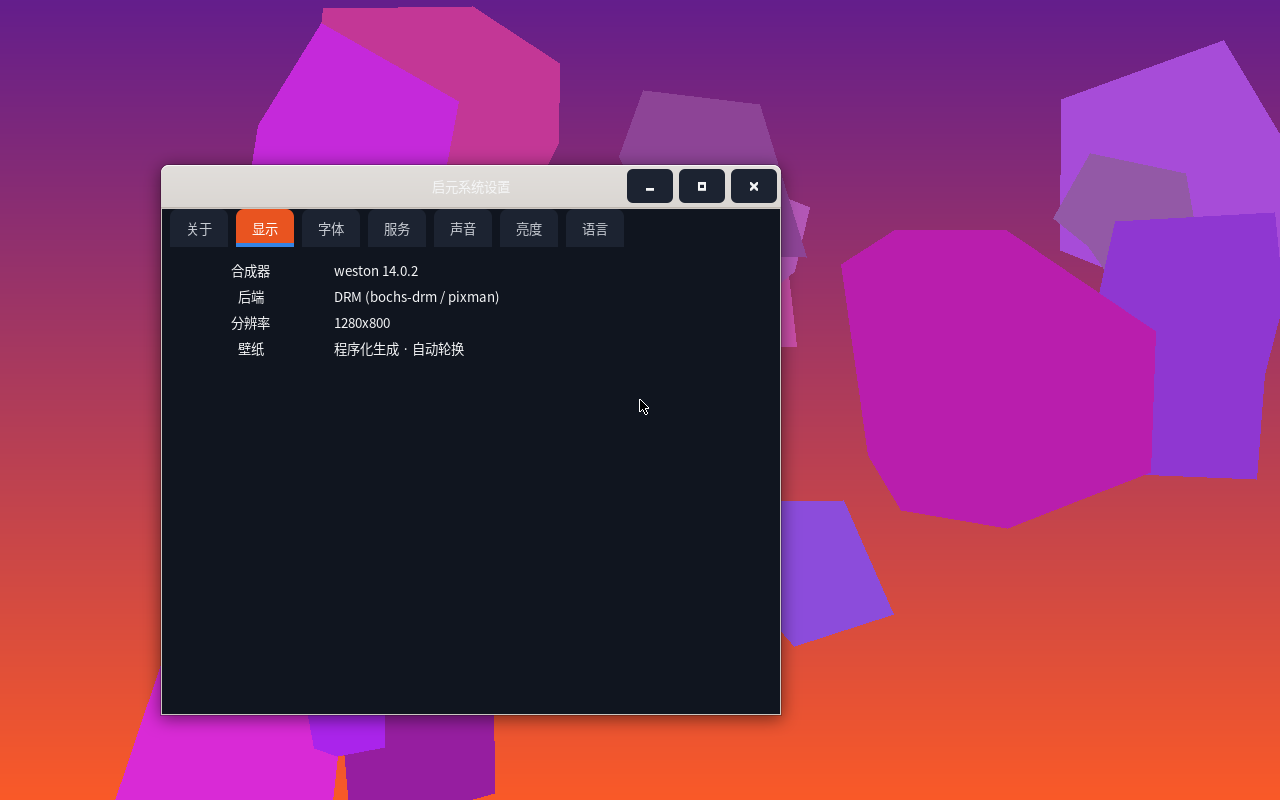
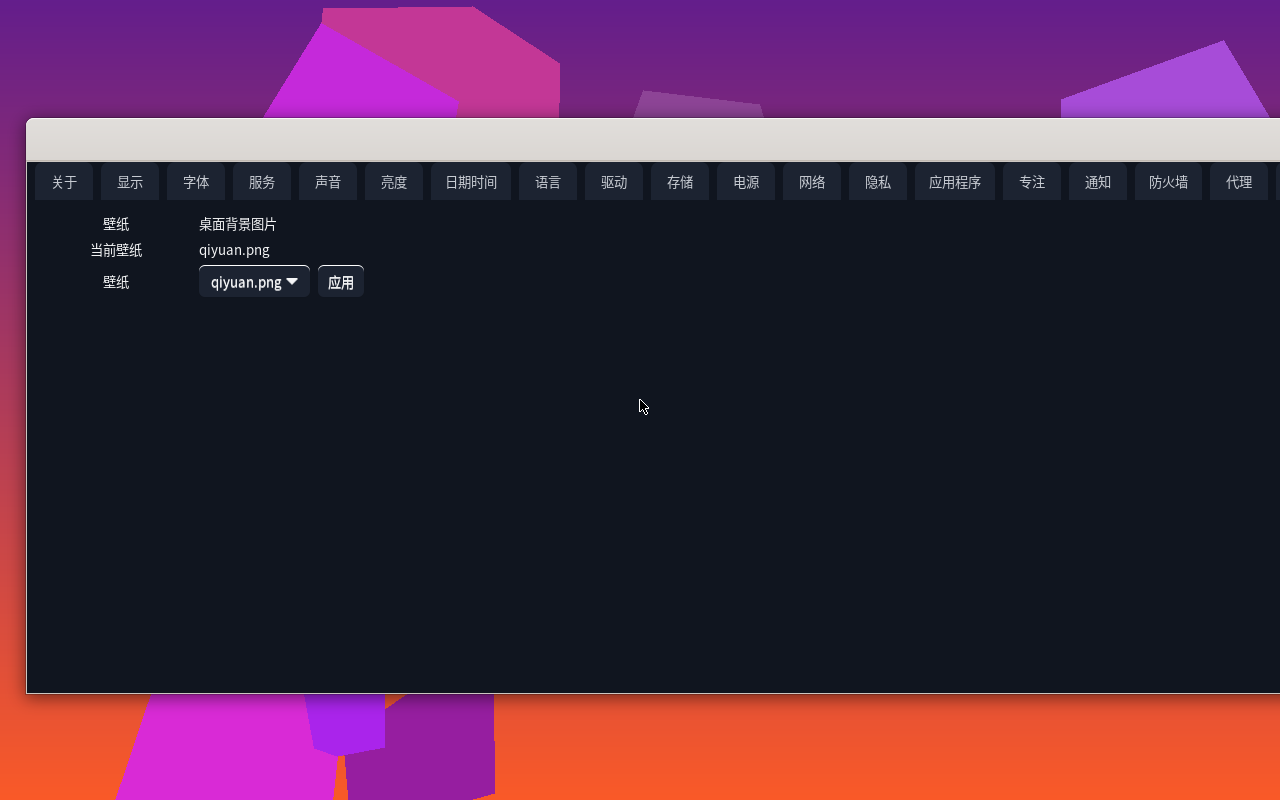
feat(settings): 壁纸页
- 当前壁纸+壁纸下拉+应用按钮
- /etc/qywallpaper.conf wallpaper
- QY_SETTINGS_WALLPAPER=qiyuan.png 自动化
- QY_SETTINGS_PAGE=37 直达, total=38
- l10n: 桌面背景图片/当前壁纸
- 实测: 下拉+按钮 + wallpaper=qiyuan.png
- qydesktop release 126->127

diff --git a/recipes/qysettings.c b/recipes/qysettings.c
@@ -281,6 +281,50 @@ static gboolean auto_perm_apply(gpointer p) {
     return G_SOURCE_REMOVE;
 }
 
+/* ---------- 壁纸: 写 /etc/qywallpaper.conf ---------- */
+#define WALLPAPER_CONF "/etc/qywallpaper.conf"
+static GtkWidget *g_wallpaper_combo = NULL;
+
+static void wallpaper_write(const char *name) {
+    gchar *content = NULL;
+    gsize len = 0;
+    g_file_get_contents(WALLPAPER_CONF, &content, &len, NULL);
+    GString *out = g_string_new(NULL);
+    char *line = content;
+    int replaced = 0;
+    while (line && *line) {
+        char *nl = strchr(line, '\n');
+        size_t llen = nl ? (size_t)(nl - line) : strlen(line);
+        if (strncmp(line, "wallpaper=", 11) == 0) {
+            g_string_append_printf(out, "wallpaper=%s", name);
+            replaced = 1;
+        } else {
+            g_string_append_len(out, line, llen);
+        }
+        if (nl) g_string_append_c(out, '\n');
+        line = nl ? nl + 1 : NULL;
+    }
+    g_free(content);
+    if (!replaced)
+        g_string_append_printf(out, "wallpaper=%s\n", name);
+    g_file_set_contents(WALLPAPER_CONF, out->str, out->len, NULL);
+    g_string_free(out, TRUE);
+}
+
+static void on_wallpaper_apply(GtkWidget *w, gpointer ud) {
+    (void)w; (void)ud;
+    const char *name = gtk_combo_box_text_get_active_text(GTK_COMBO_BOX_TEXT(g_wallpaper_combo));
+    if (name && name[0]) wallpaper_write(name);
+}
+
+/* 自动化验证: QY_SETTINGS_WALLPAPER=qiyuan.png 启动后写入 */
+static gboolean auto_wallpaper_apply(gpointer p) {
+    (void)p;
+    const char *env = g_getenv("QY_SETTINGS_WALLPAPER");
+    if (env && env[0]) wallpaper_write(env);
+    return G_SOURCE_REMOVE;
+}
+
 /* ---------- 窗口行为: 开关+动作写 /etc/qywinbehavior.conf ---------- */
 #define WIN_CONF "/etc/qywinbehavior.conf"
 static int g_win_loading = 0;
@@ -3219,6 +3263,87 @@ static void activate(GtkApplication *app, gpointer ud) {
         gtk_notebook_append_page(GTK_NOTEBOOK(nb), vwb, gtk_label_new(TR("窗口行为")));
         if (g_getenv("QY_SETTINGS_WIN"))
             g_timeout_add(1950, auto_win_apply, NULL);
+    }
+
+    /* 壁纸页: 桌面背景选择（写 /etc/qywallpaper.conf） */
+    {
+        GtkWidget *vwl = gtk_box_new(GTK_ORIENTATION_VERTICAL, 6);
+        gtk_container_set_border_width(GTK_CONTAINER(vwl), 14);
+        gtk_box_pack_start(GTK_BOX(vwl), row(TR("壁纸"), TR("桌面背景图片")), FALSE, FALSE, 0);
+        /* 当前壁纸 */
+        gchar *cur_wall = g_strdup("qiyuan.png");
+        gchar *content = NULL;
+        gsize len = 0;
+        if (g_file_get_contents(WALLPAPER_CONF, &content, &len, NULL)) {
+            char *line = content;
+            while (line && *line) {
+                if (strncmp(line, "wallpaper=", 11) == 0) {
+                    char *p = line + 11;
+                    char *nl = strchr(p, '\n');
+                    if (nl) *nl = 0;
+                    if (*p) { g_free(cur_wall); cur_wall = g_strdup(p); }
+                    break;
+                }
+                char *nl = strchr(line, '\n');
+                line = nl ? nl + 1 : NULL;
+            }
+            g_free(content);
+        }
+        gtk_box_pack_start(GTK_BOX(vwl), row(TR("当前壁纸"), cur_wall), FALSE, FALSE, 0);
+        g_free(cur_wall);
+        /* 壁纸列表（/usr/share/backgrounds/*.png） */
+        GtkWidget *wl_row = gtk_box_new(GTK_ORIENTATION_HORIZONTAL, 8);
+        GtkWidget *wl_l = gtk_label_new(TR("壁纸"));
+        gtk_widget_set_size_request(wl_l, 150, -1);
+        gtk_widget_set_halign(wl_l, GTK_ALIGN_START);
+        g_wallpaper_combo = gtk_combo_box_text_new();
+        int wall_idx = 0, cur_idx = 0;
+        GDir *wdir = g_dir_open("/usr/share/backgrounds", 0, NULL);
+        if (wdir) {
+            const gchar *wn;
+            while ((wn = g_dir_read_name(wdir))) {
+                if (g_str_has_suffix(wn, ".png") || g_str_has_suffix(wn, ".jpg")) {
+                    gtk_combo_box_text_append_text(GTK_COMBO_BOX_TEXT(g_wallpaper_combo), wn);
+                    if (!strcmp(wn, cur_wall) || wall_idx == 0)
+                        cur_idx = wall_idx;
+                    wall_idx++;
+                }
+            }
+            g_dir_close(wdir);
+        }
+        if (wall_idx == 0) {
+            gtk_combo_box_text_append_text(GTK_COMBO_BOX_TEXT(g_wallpaper_combo), "qiyuan.png");
+            cur_idx = 0;
+        }
+        gtk_combo_box_set_active(GTK_COMBO_BOX(g_wallpaper_combo), cur_idx);
+        const char *env_wl = g_getenv("QY_SETTINGS_WALLPAPER");
+        if (env_wl && env_wl[0]) {
+            GtkTreeModel *wmodel = gtk_combo_box_get_model(GTK_COMBO_BOX(g_wallpaper_combo));
+            GtkTreeIter wit;
+            int widx = -1, wpos = 0;
+            if (gtk_tree_model_get_iter_first(wmodel, &wit)) {
+                do {
+                    gchar *wtxt = NULL;
+                    gtk_tree_model_get(wmodel, &wit, 0, &wtxt, -1);
+                    if (wtxt && !strcmp(wtxt, env_wl)) { widx = wpos; }
+                    g_free(wtxt);
+                    if (widx >= 0) break;
+                    wpos++;
+                } while (gtk_tree_model_iter_next(wmodel, &wit));
+            }
+            if (widx >= 0)
+                gtk_combo_box_set_active(GTK_COMBO_BOX(g_wallpaper_combo), widx);
+        }
+        GtkWidget *wl_btn = gtk_button_new_with_label(TR("应用"));
+        qy_add_class(wl_btn, "qy-btn");
+        g_signal_connect(wl_btn, "clicked", G_CALLBACK(on_wallpaper_apply), NULL);
+        gtk_box_pack_start(GTK_BOX(wl_row), wl_l, FALSE, FALSE, 0);
+        gtk_box_pack_start(GTK_BOX(wl_row), g_wallpaper_combo, FALSE, FALSE, 0);
+        gtk_box_pack_start(GTK_BOX(wl_row), wl_btn, FALSE, FALSE, 0);
+        gtk_box_pack_start(GTK_BOX(vwl), wl_row, FALSE, FALSE, 0);
+        gtk_notebook_append_page(GTK_NOTEBOOK(nb), vwl, gtk_label_new(TR("壁纸")));
+        if (env_wl)
+            g_timeout_add(2000, auto_wallpaper_apply, NULL);
     }
 
     gtk_widget_show_all(win);

diff --git a/recipes/qyl10n.c b/recipes/qyl10n.c
@@ -356,6 +356,8 @@ static const pair tbl[] = {
     { "最大化", "Maximize" },
     { "卷起", "Shade" },
     { "搜索当前目录", "Search current folder" },
+    { "桌面背景图片", "Desktop background image" },
+    { "当前壁纸", "Current wallpaper" },
     { "设备管理", "Devices" },
     { "请先在列表中选择目标磁盘", "Select a target disk first" },
     { "输出音量 (Master)", "Master volume" },

diff --git a/recipes/qydesktop.py b/recipes/qydesktop.py
@@ -6,7 +6,7 @@
 
 name = "qydesktop"
 version = "0.1.0"
-release = 126
+release = 127
 summary = "启元桌面 shell（GTK3 单窗口 + 主题）"
 license = "MIT"
 

diff --git a/README.md b/README.md
@@ -1518,3 +1518,17 @@ ngs-about-v2.png`。
   复制/删除/重命名/新建文件夹/回收站/还原/彻底删除
 
 构建产物：`qydesktop 0.1.0-126`。
+
+### 系统设置：壁纸页（v0.1.0-127，2026-10 实测）
+
+按「UI/美术细节」需求，新增桌面壁纸设置页（窗口行为页之后）：
+- 「壁纸」说明 + 「当前壁纸」显示（读 /etc/qywallpaper.conf）
+- 「壁纸」下拉：列出 /usr/share/backgrounds/ 下 .png/.jpg 壁纸 + 应用按钮
+- 应用后写 /etc/qywallpaper.conf（wallpaper=文件名）
+- 自动化：`QY_SETTINGS_WALLPAPER=qiyuan.png` 启动后自动写入
+- l10n：桌面背景图片/当前壁纸（壁纸已有）
+- 实测：`QY_SETTINGS_PAGE=37` 直达壁纸页
+  （QYSETTINGS_DEBUG: set page=37 total=38），
+  当前壁纸+下拉+按钮渲染正常，qywallpaper.conf 写入 qiyuan.png
+
+构建产物：`qydesktop 0.1.0-127`。
